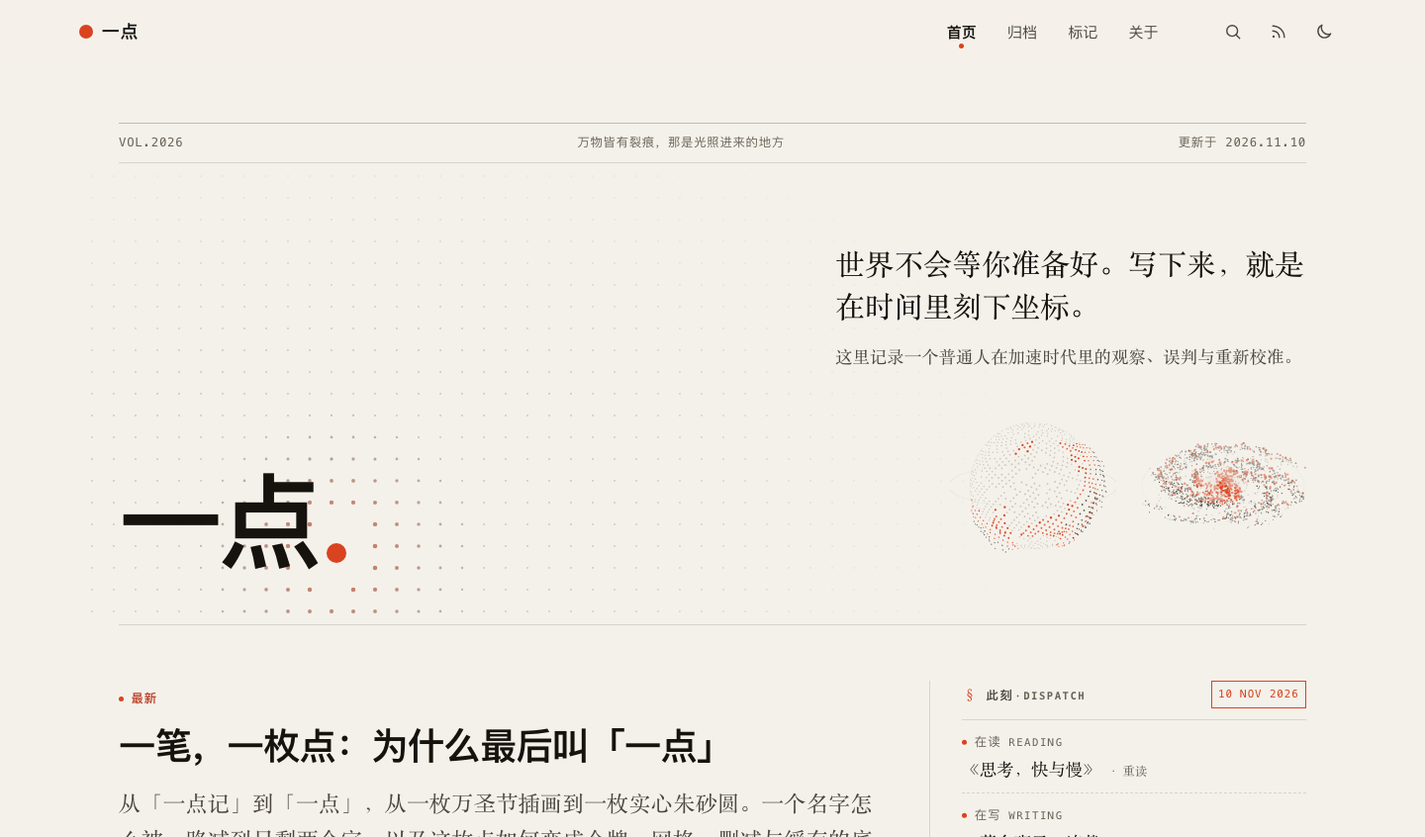
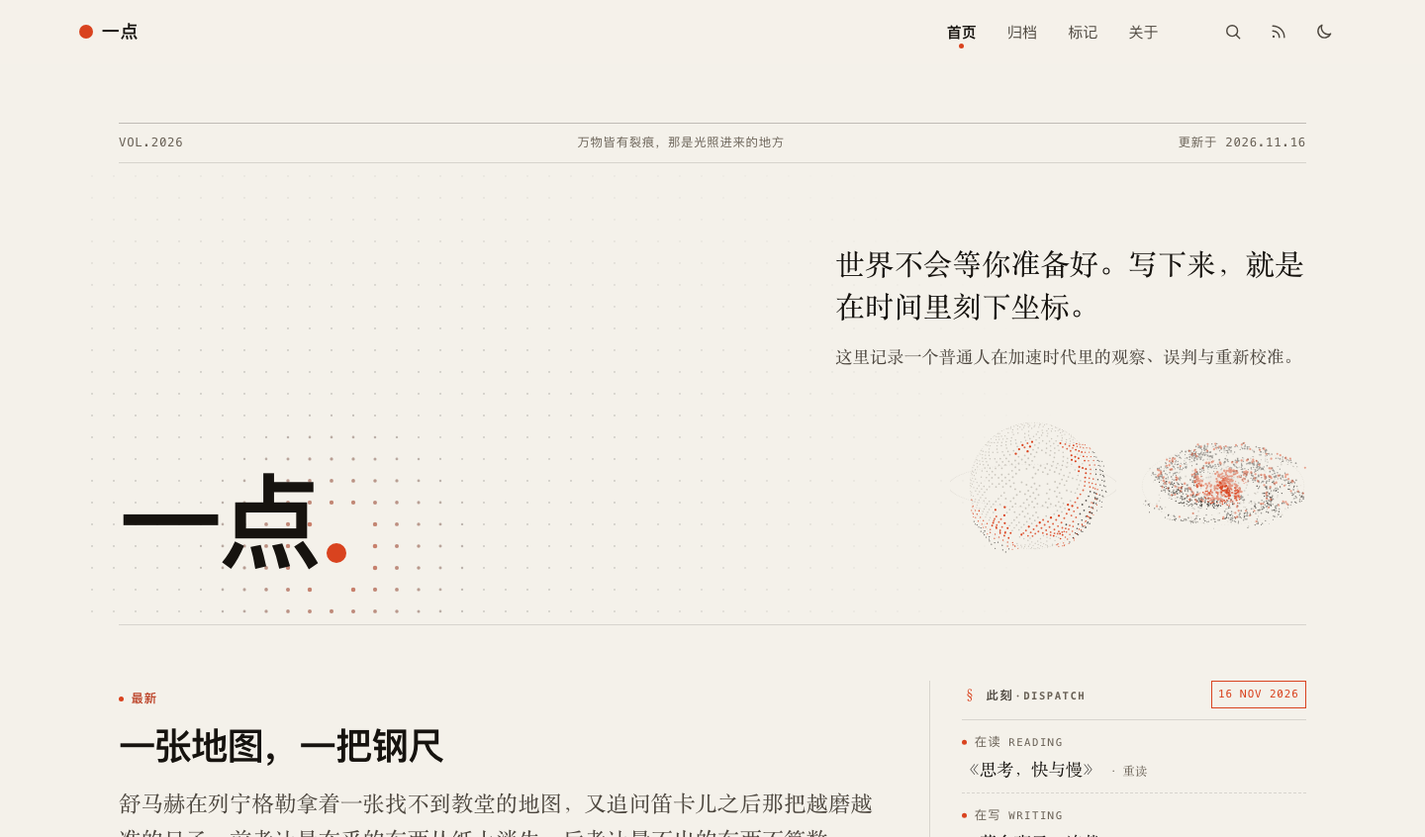
content: 发布《一张地图，一把钢尺》并落地认知长文写作流程
- 从《解惑：心智模式决定你的一生》（舒马赫，158 页）取材，
  所有引文核到 PDF 页序；CLI 段错误时改用 Swift+PDFKit 取文本
- 纯按需流程首篇：先出「地图」「尺子」两版（句片段重合 0），
  再按八节对称合并，47.6% : 52.4% 双主线各半，
  第 4 节末用「契合」做转轴，结尾两段画面不总结
- 去掉 draft，正式发布；lint 双主线各 0 WARN
  （地图 10 次 / 尺子 6 次 / 开篇抽象名词 0 / 引导词 0）
- 验证：217 页 / 341 文件 / 9.5 MiB，文章页 200、
  JSON-LD 两块合法、answer 进 meta description、
  sitemap 136 条与 llms.txt 自动收录、首页头条已切换、
  明暗截图与 4 页控制台 0 报错
- 首页明暗截图重拍；README 随笔 24→28 篇、性能基线、
  写作 skill 条目、节数 49→50；REFACTOR 第五十节

Changed region(s): [[0.0625, 0.9527, 0.625, 1.0], [0.0938, 0.8605, 0.5, 0.922]]

diff --git a/content/posts/一张地图，一把钢尺.md b/content/posts/一张地图，一把钢尺.md
@@ -1,0 +1,145 @@
+---
+title: 一张地图，一把钢尺
+date: 2026-11-16T19:50:00+08:00
+tags:
+  - 认知
+  - 阅读
+  - 思考
+draft: false
+toc: true
+description: 舒马赫在列宁格勒拿着一张找不到教堂的地图，又追问笛卡儿之后那把越磨越准的尺子。前者让最在乎的东西从纸上消失，后者让量不出的东西不算数——这是同一个困惑的两半。
+answer: 《解惑》指出困惑的两半：知识地图按「如有可疑，就将它排除在外」绘制，把还在使用的东西留成空白；而操纵的科学追求可量化、可核实的指针读数，牺牲质与意义。解法既不是把地图画得更细，也不是换一把更准的尺子，而是让认识的人配得上要认的东西，并分清哪些问题根本不靠解决。
+---
+
+在一个陌生的街口站住，手里摊着一张地图。
+
+抬头，街对面明明立着一座很大的建筑，尖顶，彩窗，门口有人进进出出。低头，纸上那一格是空的。手指沿着街名来回划了两遍，把纸翻过来看背面，又翻回来。是不是自己站错了地方。
+
+后来有个路过的人说，这个不标。
+
+那个人说完就走了。纸还是那张纸，街还是那条街。不是它不在，是它不在纸上。
+
+## 那个不标的规矩
+
+1968 年 8 月，苏联军队开进捷克斯洛伐克的那个星期，E. F. 舒马赫在列宁格勒（现在叫圣彼得堡）遇到了这件事。他在《解惑：心智模式决定你的一生》（江唐译，中信出版集团）第一章里写：眼前是几座宏伟的教堂，地图上找不到。翻译过来解释：「我们不在地图上标注教堂。」他指着图上明明标着的一座，对方说，那是一家博物馆，不是当地人说的那种「还在使用的教堂」；还在使用的，不予标明。
+
+舒马赫说，从小学到中学再到大学，他拿到的那些有关生活和知识的地图，也找不到他最在乎的东西。他满腹疑惑地过了好多年，那时没有翻译过来帮他。直到他换了个问法：不再怀疑自己的看法是否理智，转而怀疑地图是否全面可靠。
+
+他换的不是眼睛，是手里的那张纸。
+
+那张纸的折痕上，那条街还是白的。
+
+## 纸是按什么规矩画的
+
+地图不是漏了一笔。学校教给他的那套画法，首要原则被他概括成一句话：「如有可疑，就将它排除在外」，或者把可疑的东西直接放进博物馆。开普勒和牛顿把大半辈子花在不存在的事物上，祖先们斋戒、朝圣、反复祈祷，这些都只配陈列起来供人好奇。整幅地图从左到右、从上到下，涂的是功利主义的颜色：凡是画上去的，都得能解释成对人的舒适有用，或者对生存斗争有用。
+
+他顺手把这条规矩翻了过来：如有可疑，就将它突出标明。
+
+把可疑的排除掉，当然能少犯一种错。下一页他写得很老实：如果我把自己的思维局限在我认为无可置疑的知识范畴里，那么我的确降低了犯错误的风险，但同时我也提高了另一种风险——遗漏掉人生中最微妙、最重要或者最有益的事物。他还引了托马斯·阿奎那：从最崇高的事物中可能获取的最可疑的知识，也比从低微的事物中获取的最确凿的知识更可取。
+
+两种风险，一张纸只能防住一种。
+
+现在这张纸换成了屏幕。看板上有一列数字：首屏 170KB，加载 1.2 秒，点击率涨了 3%。每个格子都填得满满的，颜色也是准的。有人问昨天那篇东西有没有帮到谁，格子空着——不是没测，是没有这一栏。
+
+## 一层多一样东西
+
+书里有一处像小孩搭积木。他把世界拆成四层：无机物、植物、动物、人，写作 `m`、`m+x`、`m+x+y`、`m+x+y+z`。x 是生命，y 是意识，z 是自我意识。三个字母都看不见，只有 m 看得见；效果倒是天天见。
+
+石头不会从土里汲取养料，草会。猫被打得昏迷不醒，生命的进程还在走，意识没了。人比猫多出来的那一点，是能说出「我」，还能回过头看自己刚才在想什么。他特意提醒，这些字母只是「指示月亮的手指」，别把标签当成月亮。
+
+有一段话说得很不客气：说生命不是别的、只是原子的某种排列，就好比说莎士比亚的《哈姆雷特》不是别的、只是字母的某种排列。法语版、德语版的字母组合完全不同，戏还是那出戏。
+
+还有一句更短：凡是我们可以摧毁却无法制造的东西，在某种意义上都是神圣的。
+
+他也写过标签的代价。把狗说成「一株会叫的植物」，把人说成「裸猿」，说着说着，就会照着这个说法去对待它们；当人们把动物叫作「动物机器」时，很快就开始照此对待它们。
+
+每上一层多出来的那个字母，纸上是画不出来的。
+
+## 有些问题，地图不负责解决
+
+书开头把这本旅行指南要回答的事列了四条：世界是什么结构，人拿什么装备去应对，人怎么认识世界，以及在这个世界上生活意味着什么。对应下去是四个答案：世界分层次，装备靠契合，认识有四种认知领域，生活要分清汇聚与发散。四条里没有一条叫「把地图画满」。
+
+书快开头的地方还有一句限定：地图或旅行指南并不能「解决」问题和「解释」奥秘，它只能帮人辨认它们。
+
+他把问题分成两类，分法不玄：
+
+| 汇聚性问题 | 发散性问题 |
+|---|---|
+| 答案越研究越靠拢，最后能写成操作指南 | 答案越合乎逻辑、一以贯之，彼此分歧越大 |
+| 一旦找到答案，问题就变得无趣、死气沉沉 | 没有「解决」，只有做得比别人更好的人 |
+| 物理、化学、几何、数学、棋类 | 教育、政治、怎么把一个人带大 |
+| 不涉及生命、意识、自我意识 | 一旦有自由和内在体验掺进来，成对的两难就出现 |
+
+他举的例子是学校。第一组顾问说教育要纪律与服从，顺着逻辑推到底，完美的纪律就是完美的学校，学校会变得形同监狱；第二组顾问说教育要自由，同样推到底，完美的自由会让学校有几分疯人院的感觉。逻辑在这儿帮不上忙，因为它不许一件好事的反面同时为真，也不许一件好事不是多多益善。
+
+「生活要比逻辑更复杂。」他这么写。
+
+他去请教那些真正教得好的人。对方听完这套哲学困境，大概会有点恼：「这种方法对我来说未免聪明得过了头。关键在于，你必须喜爱那些糟糕的小事。」
+
+另一对矛盾是自由和平等。放任自由，强者欣欣向荣、弱者受苦受罪；推行平等，就得限制自由。法国大革命的口号往里加了第三个词：博爱。自由和平等可以靠以强制力为后盾的立法建立，博爱不行，它超出任何机构的管辖范围，只能由个人靠变得更好来实现。
+
+结语里他还写过：哪怕技术解决了所有的「新」问题，无聊、混乱、腐朽的局面仍将一如既往。这些不是被漏掉的新问题，是一开始就没打算画上去的。
+
+逻辑填得满两栏，填不满第三栏。
+
+书里给这件事还留了个拉丁词：adaequatio，译作「契合」。古罗马的普罗提诺说得比译名直白：「眼睛若不先变得像太阳，就绝不会看到太阳；灵魂若不先变得美丽，就绝不会看到至高无上的美。」问题从来不在纸画得够不够细，在看的人有没有能接住它的那一部分。
+
+于是有了另一条路：不换纸，把尺子磨得更准。
+
+## 把「就此打住」写进规则的人
+
+桌上摊着一块木板，要锯成两半。钢尺压上去，量了三遍，笔尖在 42 厘米处点了个点。锯条沿着那个点走，两截一对，严丝合缝。那天下午顺得没什么好说的。
+
+晚上想给一个很久没联系的人写封信。纸铺开，笔拧开，坐了半小时，一个字没落。尺子就在手边，刻度朝上，帮不上忙。
+
+第五章里，舒马赫把这笔账算到了笛卡儿头上。笛卡儿（1596—1650）说过，寻找通向真理捷径的人，不该为任何无法与数学和几何学的论证相媲美的对象劳神；只有与我们的智力相匹配的、确定无疑的知识，才可以占用我们的注意力。他给理性定的方法是一步步削减复杂、模糊的命题，简化到非常简单的命题，再从那里起步。更关键的是配套的那条停手规则：如果理解力无法实现直觉的认识，就必须就此打住，免得多费力气。
+
+舒马赫对这套方案的评价很克制，说它出自「一个既深刻又狭隘得可怕的心灵」。他接着写笛卡儿的首要兴趣：让人成为「自然的主宰和拥有者」，而「倘若事物不能以这种或那种方式予以量化，那就没有什么东西是精确的了」。
+
+哲学被有史以来最出众的头脑耕耘了好几个世纪，仍然找不出一样毫无争议的东西。这个事实最终促使笛卡儿「从智慧中撤退」，退到数学和几何这样可靠、不容置疑的知识里。被这套方法处理过的物质世界，几何延伸和局部运动留下来了，让事物象征精神的一切、让事物向我们倾诉的一切被抹掉了。书里给了五个字：宇宙由此变得喑哑无声。
+
+尺子没有量错。它只是把不能上尺子的东西，从桌上一并收走了。
+
+## 指针读数
+
+第五章里有一处很具体的画面，来自英国天文学家阿瑟·爱丁顿：科学所依赖的观察，最终会落到测量仪器上的「指针读数」。他说，在理想状态下，我们对宇宙的全部认识都可以只通过视觉获得——甚至可以通过最简单的、不能分辨色彩的、非立体的视觉形式获得。
+
+舒马赫顺着这句往下推：倘若对宇宙的科学认知只是「一只色盲的眼睛」读出来的，那就不能指望这幅图景能给出一个比抽象、贫瘠的机械系统更丰富的世界。
+
+代价写得很清楚。指针读数准确、不容置疑、易于核实、易于交流，不会被任何观察者的主观性玷污；任何人肯花些工夫都能验证，于是它成了公共知识。可一重限制会招致另一重限制——我们获得了客观性，却没能获得把客体视为一个整体的认识。让人觉得客体有趣、有意义、重要的那些内容，一样都没把握住。他引了一句形容这种世界图景的话：令人反感的一片荒芜。
+
+「建立量化数学模型的代价，就是牺牲了质的因素，可是质恰恰是最重要的。」他还补了一句更平缓的规律：越往存在之链的高处走，量的重要性越发减弱，质的重要性越发增加。
+
+同一章里，契合那一节给了另一条路。每个手工艺人都知道，他的认知能力不只在头脑里，还包括身体的智能——「他的指尖知道的事，他的思维一无所知」。帕斯卡的话被放在旁边：「心有其种种理由，而理性对这些理由一无所知。」人不是有许多识别手段，人本身就是一种手段。
+
+指尖磨出来的那层茧，读数是空的。
+
+## 两个名字分家
+
+西方人的兴趣发生过一次位移，书里用两句话标出两端：托马斯·阿奎那说，从最崇高的事物中可能获取的最微妙的知识，也比从低微事物中获取的最确凿的知识更可取；克里斯蒂安·惠更斯说，世界上没有什么比这样的知识更诱人和有用——他指的是对相对无足轻重的事物的精确数学认识。
+
+这一位移标志着「理解的科学」转成「操纵的科学」。前者为启发心智、让人获得解放，后者为拿到力量。培根说「知识就是力量」，笛卡儿许诺让人成为「大自然的主宰和主人」。后来，「理解的科学」常常被叫作智慧，「科学」这个名字留给了操纵。
+
+奥古斯丁那一脉的区分，经艾蒂安·吉尔松重述是：智慧的目标能通过浅显易懂的说理让人不做恶行；科学的目标常处于为贪心所俘获的危险境地，因为它只注重实利。舒马赫没有把话说绝——当操纵的科学服膺于智慧时，它是「最有价值的工具，不会造成任何损害」。麻烦出在人们不再对追求智慧感兴趣之后。
+
+第五章的小标题是他另一本书里的一句话，摆在这儿像一句判词：「我们如今已经变得太过聪明，又同时处在没有智慧的情况下。」
+
+接下来的走向写得更冷：古老的科学把大自然看作上帝的作品和人类之母，新科学倾向于把它当成有待征服的对手或有待开采的矿场；政治和经济力量的提高成了科研经费的主要支出理由；「操纵的科学」险些难以避免地，从对自然的操纵发展为对人的操纵。还有一段没有引号、更容易被略过：人们更加疯狂地努力工作，但没有解决或看似无法解决的问题越来越多；尽管财富也许还在增长，但人的精神质量却下降了。
+
+尺子磨得越来越亮，最后开始量握尺子的人。
+
+## 布丁与靶子
+
+「操纵的知识」长什么样，书里写得很实用。它的每个方案都是一个条件句：如果你想实现这个或那个目标，就采取这样那样的步骤。句子要尽可能简明，不附带任何并非十足必要的概念，指示要精确，「尽可能不要给操作者留下判断的余地」。
+
+检验方式也干脆：「要证明是布丁，就吃吃看。」这种知识不以操作者的性格和兴趣为转移，任何人掌握了都能获得力量，坏人也能用。
+
+问题在于，越往高处走，预测和控制越变得令人厌恶。作为物理—化学系统，人在很大程度上可以预测；作为活生生的躯体，可预测性低一些；作为有意识的存在更低；作为有自我意识能力的人，几乎不可预测。舒马赫说，原因不在于研究者缺乏契合，而在于人自由的本质。
+
+于是有了那句压在页底的判词：近三百年来的不均衡发展，使西方人变成了「手段上的富人，目的上的穷人」。他的知识层级结构失去了顶端的头部，意志陷于瘫痪，因为失去了分辨价值高低的基础。现代社会为多元化自豪，很多东西都被说成「本身就是好的」——权力、财富、知识本身、行进的速度、市场的大小、变革的速度、医院的数量。书里说，这些神圣不可冒犯的东西，无一是真正的目标，全是手段。
+
+第七章末尾还留了一个更老的说法：「罪」的字面意思，是射箭时没命中靶子。靶子在哪儿，指针读数回答不了。
+
+翻译说完那句「对那些还在使用的，不予标明」就走了。列宁格勒那几座教堂后来有没有标上去，书里没写。
+
+钢尺搁在木板边上，刻度朝上。42 那道线还留着铅笔的痕，信纸压在旁边，一个字也没有。

diff --git a/.workbuddy/memory/2026-11-16.md b/.workbuddy/memory/2026-11-16.md
@@ -11,3 +11,31 @@
 - **回归验证**：`付印之前：三十九道红笔.md --motif 校样` → 2 WARN（`其实`×3、主线词命中 2 次）；`一笔，一枚点… --motif 一点` → 0 WARN。均在开篇抽象名词 0、结尾无总结词上通过。说明脚本能检出真实信号，不是空转。复合意象需在 playbook 里注明 `--motif` 选最具象词。
 - **草稿制**：默认写 `content/posts/` 且 `draft: true`，不 commit / 不 push / 不发布，交用户过目。
 - 今日早前的 V10.34 首页虚构书页边距修复（0ad1cf5）已记在 2026-11-10 日志，此处不重复。
+
+## 纯按需流程首次试跑：《地图上没有标的教堂》（草稿，未发布）
+
+- 用户提供 PDF《解惑：心智模式决定你的一生》（E.F.舒马赫，江唐译，中信出版集团，158 页），要求「先进行尝试」。
+- **取文本**：workbuddy-pdf CLI 对该 PDF 反复段错误（退出码 139，换简单路径/换 txt 格式均崩）；本机无 fitz/pypdf/pdfplumber。改用 macOS 原生 Swift + PDFKit 脚本 `/tmp/extract.swift` 提取，得 158 页 / 10.6 万字，中文文字层完整。经验：该 CLI 崩溃时可用 PDFKit 兜底，不要装第三方库。
+- **核对的原文锚点**（PDF 页序）：页 14 列宁格勒教堂故事与「还在使用的教堂不予标明」；页 14 「不再怀疑自己的看法，转而怀疑地图」；页 15 「如有可疑，就将它排除在外 / 突出标明」；页 16 降低犯错风险 vs 遗漏风险、阿奎那引语；页 20 地图只帮人辨认、契合与汇聚/发散框架；页 30–36 四界 m/m+x/m+x+y/m+x+y+z、指示月亮的手指、《哈姆雷特》字母比喻、「可摧毁却无法制造」、会叫的植物/裸猿；页 57 普罗提诺「眼睛若不先变得像太阳」；页 72 理解的科学 vs 操纵的科学、培根、笛卡儿；页 87/90 裸露的注意力；页 139–141 发散性问题、两组顾问、「必须喜爱那些糟糕的小事」、博爱作为第三力量；页 155 「技术解决所有新问题」；页 6 柯维推荐序；页 9 去世前 5 天交手稿。
+- **题眼**：主线「地图」，从教堂故事切入，串契合 → 两类科学 → 四层存在 → 发散性问题 → 裸露的注意力，避免按章节复述。用户说「先进行尝试」，故未按 SKILL.md 先问题眼，直接出稿，草稿兜底；备选方向在回复里给出。
+- **产物**：`content/posts/地图上没有标的教堂.md`，front matter 带 `draft: true` + `answer`（呼应站点 GEO 描述优先链）。2370 汉字 / 7 个 h2 / 40 段。
+- **自检**：`lint.py --motif 地图` 得 0 WARN（开篇 200 字抽象名词 0、引导词 0、「你发现没有」0、结尾无总结词、主线类比 10 次、抽象名词全篇 0）；具体名词密度 13.5/千字。`hugo --minify -D --destination /tmp/hugo-draft-check` 退出码 0，front matter 可解析。
+- **按 SKILL.md 硬规则：未 git add、未 commit、未 push、未发布**，等用户过目。
+
+## 方向一第二版草稿：《钢尺量不出的那封信》（未发布）
+
+- 用户「方向一也可以出一版」，即题眼「我们太聪明了而失掉了智慧 / 理解的科学 vs 操纵的科学」，主线「尺子」。
+- **补读原文**（PDF 页序）：页 22 笛卡儿「不该为无法与数学几何相媲美的对象劳神」「就此打住」规则、「不能量化就没有什么是精确的」；页 23 「宇宙由此变得喑哑无声」「从智慧中撤退」；页 69–71 爱丁顿「指针读数」「一只色盲的眼睛」、客观性 vs 整体认识、「令人反感的一片荒芜」、量的代价是牺牲质、手工艺人「指尖知道的事，思维一无所知」、帕斯卡；页 72 阿奎那 vs 惠更斯、两类科学、吉尔松、「最有价值的工具，不会造成任何损害」；页 73 「太过聪明…没有智慧」、从自然到人的操纵、矿场；页 74 「更加疯狂地努力工作…精神质量却下降了」；页 75 条件句方案、「不要给操作者留下判断的余地」、「要证明是布丁，就吃吃看」；页 76 「手段上的富人，目的上的穷人」、不可预测源于自由；页 77 「罪」= 没命中靶子。
+- **产物**：`content/posts/钢尺量不出的那封信.md`，draft: true + answer。2224 汉字 / 4 个 h2 / 28 段；主线「尺子」6 次。开篇是量木板 42 厘米 vs 写不出的信，结尾回到钢尺与空信纸，留画面。
+- **差异化验证**：与地图版句片段重合 **0**；教堂/列宁格勒/地图在尺子版 0 次，指针读数/布丁/靶子/指尖/喑哑无声在地图版 0 次。不是换标题重发。
+- `lint.py --motif 尺子` 0 WARN（开篇抽象名词 0、引导词 0、结尾无总结词）；抽象名词全篇 3 处（价值×2、模型×1）均为书里的核心概念或引用，按手册「不为过检查把句子写拧」未改。`hugo --minify -D --destination /tmp/hugo-draft-check2` 退出码 0。
+- 两篇草稿均为 `??` 未跟踪，未 add / commit / push / 发布，等用户过目选版。
+
+## 两版合并：《一张地图，一把钢尺》（未发布）
+
+- 用户「两版并成一篇，地图和尺子各占一半」。新文件 `content/posts/一张地图，一把钢尺.md`，draft: true + answer。
+- **结构**：8 个 h2 对称，前 4 节地图半、后 4 节尺子半；开篇保留陌生街口找建筑的慢起点，第 4 节末用普罗提诺「眼睛若不先变得像太阳」做转轴，一句「不换纸，把尺子磨得更准」转入下半；结尾两段画面（教堂「不予标明」+ 钢尺 42 厘米与空信纸），不总结。
+- **不是首尾拼接**：补了书开头「旅行指南四问」（世界/装备/认识方式/生活），把「技术解决所有新问题」段从下半挪回地图半（本来讲「没画上去的」），删掉两版各自的支线素材（裸露的注意力、柯维推荐序、去世前五天交手稿、部分停顿句）以控制篇幅与聚焦。
+- **调平**：初稿 44.7:55.3，经上述挪移后 **47.6% : 52.4%**（地图 1965 / 尺子 2164 汉字，合计 4129；lint 口径 3999 汉字因剔除表格/标题）。
+- **终检**：`lint.py --motif 地图` 与 `--motif 尺子` 均 0 WARN（地图 10 次、尺子 6 次、开篇抽象名词 0、引导词 0、结尾无总结词）；抽象名词 3 处为核心概念/引用未改。`hugo --minify -D --destination /tmp/hugo-merge-check2` 退出码 0。
+- 两个中间草稿（地图版、尺子版）已删除，均为未提交未发布的临时产物，内容完整并入。合并版仍 `??` 未跟踪，未 add / commit / push / 发布。

diff --git a/README.md b/README.md
@@ -27,7 +27,7 @@
 
 | 栏目 | 路径 | 内容 |
 |---|---|---|
-| 随笔 | `/posts/` | 24 篇：技术、认知、生活观察 |
+| 随笔 | `/posts/` | 28 篇：技术、认知、生活观察 |
 | 虚构 | `/fictions/` | 2 部连载、26 章：目录即书名，一章一个文件 |
 | 关于 | `/about/` | 写作年轮（一圈一年）、DOT / MOTION 点阵动效插页、版权页、鸣谢、在别处 |
 | 标记 | `/highlights/` | 主导航栏目。8 篇 / 36 句，按来源文章分组；`==高亮==` 由脚本汇总，JSON 已入库 |
@@ -87,8 +87,9 @@
 - **GEO / AI 可引用**：`static/robots.txt` 放行全部 AI 代理（GPTBot / OAI-SearchBot / ChatGPT-User / ClaudeBot / Claude-User / PerplexityBot / Google-Extended 等）并声明 `Content-Signal: ai-train=yes, search=yes, ai-input=yes`；Hugo 自动生成 `llms.txt`（结构化索引 + 常见问题答案式入口）与 `llms-full.txt`（纯文本全文），新增文章自动进入索引；每页 JSON-LD 输出主对象 + `BreadcrumbList`，文章补 `isAccessibleForFree` / `license` / `about`；三页带 `answer` 一句话直接答案；全站 52 张图的 alt 均改为传达图中信息的描述。 V10.33 针对国内 AI 搜索：`sitemap.xml` 由 8 条补全到 135 条（此前约 130 篇文章页未进索引）、`robots.txt` 显式列名 11 个国内 AI 爬虫、JSON-LD 的 `Person` 补 `sameAs`/`alternateName`/`knowsAbout`、`WebSite` 补 `alternateName`、`llms.txt` 加实体信息块与国内问法。
 - **重生第一篇**：`content/posts/付印之前：三十九道红笔.md` 是站点的设计编年长文，按 V10 → V10.25 复盘每一轮的取舍、前后数字与令牌 / 网格 / 内容 / 缓存四层底层规则，附完整编年表与 10 张配图（真实前后对比、手绘 SVG 示意、生成插画，均在 `static/img/rebirth/`）。
 - **品牌长文**：`content/posts/一笔，一枚点：为什么最后叫「一点」.md` 从「一点记」到「一点」的命名收敛、符号四次演变讲起，落到令牌 / 网格 / 删减 / 缓存四层底层规则，配 5 张手绘 SVG 与一张分享卡（`static/img/one-point/`）。
+- **认知长文写作**：项目级 skill `.workbuddy/skills/cognition-writer/`（SKILL.md / playbook.md / lint.py）固化慢起点、画面驱动、主线类比与量化自检；纯按需出稿、草稿制不自动发布。首篇实战《一张地图，一把钢尺》从《解惑》整本书取材，先出「地图」「尺子」两版，再按八节对称合并发布。
 
-重构过程、每一版的取舍与前后对比都记在 [REFACTOR.md](REFACTOR.md)（共 49 节，从诊断到 V10.34 首页书页卡片边距修复）。
+重构过程、每一版的取舍与前后对比都记在 [REFACTOR.md](REFACTOR.md)（共 50 节，从诊断到认知长文写作流程与首篇发布）。
 
 ## 目录结构
 
@@ -104,7 +105,7 @@
 ├── layouts/            # baseof · home · highlights · page · section · taxonomy · term + _partials/ · _shortcodes/ · _markup/ · index.llms.txt / index.llmsfull.txt（GEO 索引）
 ├── scripts/            # dev-server · build-prod · gen-og-image · optimize-images · highlights
 ├── static/             # img/ · share/（版本化 OG 卡 og-card-v4.png）· pagefind/ · css/ · js/ · _headers · favicon.svg / .ico / apple-touch-icon.png
-├── REFACTOR.md         # 设计重构记录（49 节）
+├── REFACTOR.md         # 设计重构记录（50 节）
 └── MARKDOWN_GUIDE.md   # 写作语法与短代码速查
 ```
 
@@ -263,9 +264,9 @@ npm run build:uno:prod && npm run build   # 生产构建 → public/
 
 | 指标 | 数值 |
 |---|---|
-| 构建产物 | 214 页 / 340 个文件 / **9.3 MiB**（V10.32 新增 `llms.txt` 与 `llms-full.txt`，V10.33 把 sitemap 从 8 条补到 135 条；相比最初的 14.4 MiB 少约 35%） |
+| 构建产物 | 217 页 / 341 个文件 / **9.5 MiB**（V10.32 新增 `llms.txt` 与 `llms-full.txt`，V10.33 把 sitemap 从 8 条补到 135 条，随后发布《一张地图，一把钢尺》；相比最初的 14.4 MiB 少约 34%） |
 | 首页请求 | 4 个（1 CSS + 2 JS + favicon 5KB，字体零请求），涟漪脚本内联在 HTML 里；本地实测首屏传输 **170KB** |
-| 首页 HTML | 47.5KB（gzip 后 16.0KB，含内联的 field / tide / galaxy 三份脚本、状态公报、两篇次条与虚构书页） |
+| 首页 HTML | 47.9KB（gzip 后 16.0KB，含内联的 field / tide / galaxy 三份脚本、状态公报、两篇次条与虚构书页） |
 | 首页样式 | 156KB（gzip 后 28KB） |
 | 首页 LCP / CLS | 约 120ms / 0.0001 |
 | 文章页 | 21KB JS，字体零下载；LCP 140ms，CLS 0.0011 |
